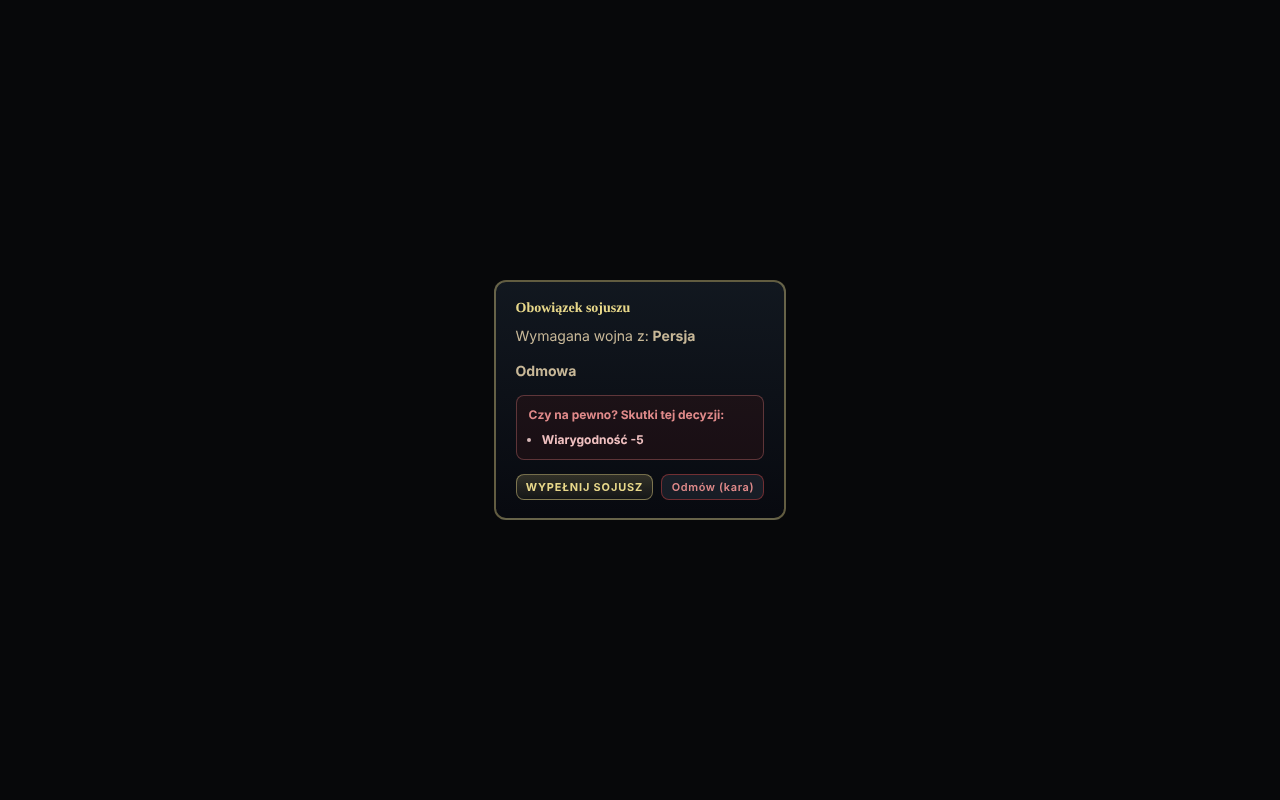
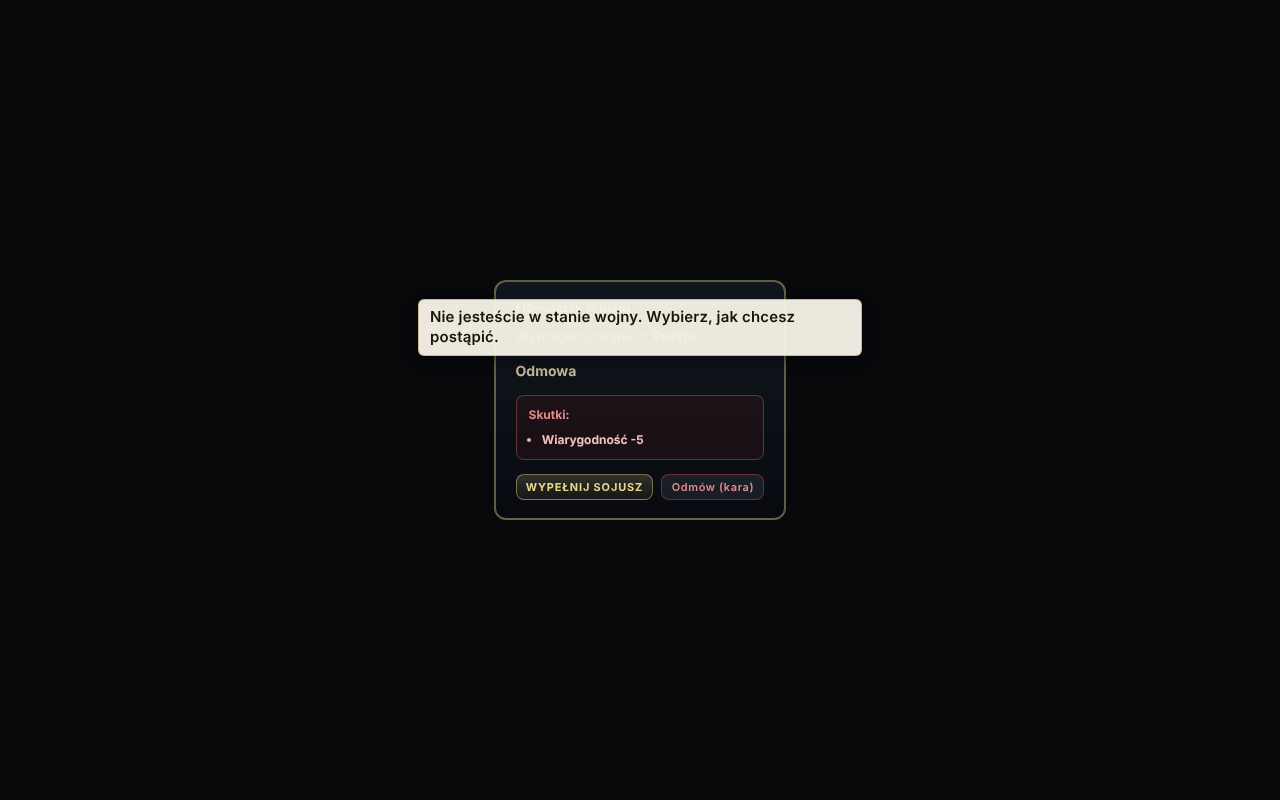
R-WEB-UI-DIPLO-ALL-PROPOSAL-WINDOWS-DECLUTTER-TOOLTIPS-Q2 r2 (Operator): okna umów koszyka, wojna/sojusz/zerwanie, słodzik — wyjaśnienia do tooltipów
Claude-Session: https://claude.ai/code/session_01Fs7eokPtaxbQL7KGTXXeWS

Changed region(s): [[0.3125, 0.375, 0.6875, 0.4688], [0.4062, 0.5, 0.5625, 0.5312]]

diff --git a/gra/src/ui/diplomacyTradeBasket.ts b/gra/src/ui/diplomacyTradeBasket.ts
@@ -663,28 +663,24 @@ function treatySectionHtml(actionId: string, ctx: NegotiationModalContext, state
         + '" data-turns="' + t + '">' + t + '</button>',
       ).join('');
       const indefiniteSelected = state.turns <= 0 ? ' selected' : '';
-      body = '<label for="cdb-treaty-turns">Czas paktu</label>'
+      // Q2: wyjaśnienie zakresu i kary przeniesione do tooltipa etykiety (nic nie usunięte).
+      body = '<label for="cdb-treaty-turns"' + detailTipAttr([
+          'Ręcznie: 10–20 tur lub 0 = bezterminowy',
+          'Koszty / kary: Złamanie paktu: −30 Relacja, −20 Zaufanie',
+        ]) + '>Czas paktu</label>'
         + '<div class="cdb-chip-row cdb-turn-presets">' + turnChips
         + '<button type="button" class="cdb-chip cdb-chip-turn' + indefiniteSelected
         + '" data-turns="0">Bezterminowy</button></div>'
-        + qtyStepperHtml('cdb-treaty-turns', 'treaty', state.turns <= 0 ? 0 : state.turns, 0, 20)
-        + '<p class="cdb-sub">Ręcznie: 10–20 tur lub 0 = bezterminowy</p>'
-        + '<div class="cdb-penalty-box">'
-        + '<div class="cdb-penalty-title">Koszty / kary</div>'
-        + '<p class="cdb-sub" style="margin:0">Złamanie paktu: −30 Relacja, −20 Zaufanie</p>'
-        + '</div>';
+        + qtyStepperHtml('cdb-treaty-turns', 'treaty', state.turns <= 0 ? 0 : state.turns, 0, 20);
       break;
     }
     case '3':
-      body = '<label>Typ sojuszu</label>'
+      // Q2: kary zerwania sojuszu w tooltipie etykiety (nic nie usunięte).
+      body = '<label' + detailTipAttr(['Koszty / kary: Zerwanie sojuszu / wojna z sojusznikiem: kary Relacji i Wiarygodności']) + '>Typ sojuszu</label>'
         + '<select id="cdb-treaty-alliance" class="cdb-treaty-alliance">'
         + '<option value="pelny"' + (state.allianceKind === 'pelny' ? ' selected' : '') + '>Sojusz wojskowy (wojna sojusznika = twoja)</option>'
         + '<option value="defensywny"' + (state.allianceKind === 'defensywny' ? ' selected' : '') + '>Sojusz obronny (atak na sojusznika)</option>'
-        + '</select>'
-        + '<div class="cdb-penalty-box">'
-        + '<div class="cdb-penalty-title">Koszty / kary</div>'
-        + '<p class="cdb-sub" style="margin:0">Zerwanie sojuszu / wojna z sojusznikiem: kary Relacji i Wiarygodności</p>'
-        + '</div>';
+        + '</select>';
       break;
     case '4': {
       const feeC = ctx.borderFeeCivil ?? 20;
@@ -721,7 +717,7 @@ function treatySectionHtml(actionId: string, ctx: NegotiationModalContext, state
         + (state.barbarianCooperation ? ' selected' : '') + '">Wspólna walka z barbarzyńcami</button>'
         + '</div>'
         + barbDurationSection
-        + '<p class="cdb-sub">Opłata cywilne: ' + feeC + ' ¤ · wojskowe: ' + feeM + ' ¤ (jednorazowo)</p>';
+        + '<p class="cdb-sub"' + detailTipAttr(['Opłata cywilne: ' + feeC + ' ¤ · wojskowe: ' + feeM + ' ¤ (jednorazowo)']) + '>Opłata: ' + feeC + ' ¤ · ' + feeM + ' ¤</p>';
       break;
     }
     case '8':
@@ -736,15 +732,14 @@ function treatySectionHtml(actionId: string, ctx: NegotiationModalContext, state
         + '<input type="number" id="cdb-treaty-trib-turns" class="cdb-treaty-trib-turns" value="' + state.tributeTurns + '" min="0" />';
       break;
     case '12':
-      body = '<label for="cdb-treaty-wasal-gpt">Trybut wasala ¤/turę</label>'
-        + '<input type="number" id="cdb-treaty-wasal-gpt" class="cdb-treaty-wasal-gpt" value="' + state.goldPerTurn + '" min="10" />'
-        + '<p class="cdb-sub">Wasal zachowuje terytorium · płaci trybut co turę</p>';
+      body = '<label for="cdb-treaty-wasal-gpt"' + detailTipAttr(['Wasal zachowuje terytorium · płaci trybut co turę']) + '>Trybut wasala ¤/turę</label>'
+        + '<input type="number" id="cdb-treaty-wasal-gpt" class="cdb-treaty-wasal-gpt" value="' + state.goldPerTurn + '" min="10" />';
       break;
     case '15': {
       const minGold = ctx.wchloniecieGoldRequired ?? 200;
       body = '<label for="cdb-treaty-wchlon-gold">Opłata za wchłonięcie (¤)</label>'
         + '<input type="number" id="cdb-treaty-wchlon-gold" class="cdb-treaty-wchlon-gold" value="' + state.goldOnce + '" min="' + minGold + '" />'
-        + '<p class="cdb-sub">Wymagane minimum ' + minGold + ' ¤ · wasal musi wyrazić zgodę (Relacja ≥ 60)</p>';
+        + '<p class="cdb-sub"' + detailTipAttr(['Wymagane minimum ' + minGold + ' ¤ · wasal musi wyrazić zgodę (Relacja ≥ 60)']) + '>Minimum ' + minGold + ' ¤</p>';
       break;
     }
     case '5': {
@@ -759,13 +754,13 @@ function treatySectionHtml(actionId: string, ctx: NegotiationModalContext, state
       // 1 turę, `clampDealTurns` 1–20 — patrz E3) — chip pomija pole `turns` w payloadzie
       // całkowicie (patrz `buildTreatyPayload`, case '5').
       const indefiniteSelected = state.turns <= 0 ? ' selected' : '';
-      body = '<label for="cdb-treaty-turns">Czas traktatu handlowego (tur)</label>'
+      body = '<label for="cdb-treaty-turns"' + detailTipAttr([
+          'Ręcznie: 1–20 tur lub 0 = bezterminowy. Fundament szlaków handlowych — opcjonalnie dołóż wymianę PW poniżej.',
+        ]) + '>Czas traktatu handlowego (tur)</label>'
         + '<div class="cdb-chip-row cdb-turn-presets">' + turnChips
         + '<button type="button" class="cdb-chip cdb-chip-turn' + indefiniteSelected
         + '" data-turns="0">Bezterminowy</button></div>'
-        + qtyStepperHtml('cdb-treaty-turns', 'treaty', state.turns <= 0 ? 0 : state.turns, 0, 20)
-        + '<p class="cdb-sub">Ręcznie: 1–20 tur lub 0 = bezterminowy. Fundament szlaków '
-        + 'handlowych — opcjonalnie dołóż wymianę PW poniżej.</p>';
+        + qtyStepperHtml('cdb-treaty-turns', 'treaty', state.turns <= 0 ? 0 : state.turns, 0, 20);
       break;
     }
     case '6': {
@@ -842,9 +837,8 @@ function treatySectionHtml(actionId: string, ctx: NegotiationModalContext, state
       break;
     }
     case '9':
-      body = '<label for="cdb-treaty-ult-gold">Reparacje (¤)</label>'
-        + '<input type="number" id="cdb-treaty-ult-gold" class="cdb-treaty-ult-gold" value="' + state.goldOnce + '" min="0" />'
-        + '<p class="cdb-sub">Odmowa partnera = casus belli (zaznacz ultimatum poniżej).</p>';
+      body = '<label for="cdb-treaty-ult-gold"' + detailTipAttr(['Odmowa partnera = casus belli (zaznacz ultimatum poniżej).']) + '>Reparacje (¤)</label>'
+        + '<input type="number" id="cdb-treaty-ult-gold" class="cdb-treaty-ult-gold" value="' + state.goldOnce + '" min="0" />';
       break;
     case '10':
       // R-DYP-STOL-A-KOREKTA (2026-08-09, nota Evaluatora): akcja '10' (pokój) jest teraz
@@ -864,15 +858,17 @@ function treatySectionHtml(actionId: string, ctx: NegotiationModalContext, state
           '<button type="button" class="cdb-chip cdb-chip-truceturns' + (state.truceTurns === t ? ' selected' : '')
           + '" data-turns="' + t + '">' + t + ' tur</button>',
         ).join('');
-        body = '<label>Rodzaj</label>'
+        // Q2: opisy trybów (rozejm / pokój) przeniesione do tooltipów etykiet (nic nie usunięte).
+        body = '<label' + detailTipAttr([isTruce
+            ? 'Rozejm: po wygaśnięciu wojna wraca bez kary. Wypowiedzenie wojny w jego trakcie = złamanie (kara jak za pakt). Baza ~200 PW.'
+            : 'Zakończenie wojny. Wymagane PW traktatu zależą od Relacji (baza ~500 PW, modyfikator ±90%).']) + '>Rodzaj</label>'
           + '<div class="cdb-chip-row">' + kindChips + '</div>'
           + '<input type="hidden" id="cdb-treaty-peacekind" class="cdb-treaty-peacekind" value="' + state.peaceKind + '" />'
           + (isTruce
             ? '<label>Czas rozejmu</label>'
               + '<div class="cdb-chip-row cdb-turn-presets">' + truceChips + '</div>'
               + '<input type="hidden" id="cdb-treaty-truceturns" class="cdb-treaty-truceturns" value="' + state.truceTurns + '" />'
-              + '<p class="cdb-sub">Rozejm: po wygaśnięciu wojna wraca bez kary. Wypowiedzenie wojny w jego trakcie = złamanie (kara jak za pakt). Baza ~200 PW.</p>'
-            : '<p class="cdb-sub">Zakończenie wojny. Wymagane PW traktatu zależą od Relacji (baza ~500 PW, modyfikator ±90%).</p>');
+            : '');
       }
       break;
     default:
@@ -1679,7 +1675,7 @@ export function buildAddForm(
         ' title="' + esc(m.label + ' — wycena ' + m.pn + ' PW') + '"',
       ),
     ).join('')
-    : '<span class="cdb-sub">— brak miast do oddania (stolica i ostatnie miasto są wyłączone) —</span>';
+    : '<span class="cdb-sub"' + detailTipAttr(['Stolica i ostatnie miasto są wyłączone.']) + '>— brak miast do oddania —</span>';
 
   const qtyResources = side === 'give'
     ? (ctx.giveQuantityResourceOptions ?? defaultQuantityResourceOptions())

diff --git a/gra/src/ui/diplomacyNegotiationModal.ts b/gra/src/ui/diplomacyNegotiationModal.ts
@@ -236,8 +236,8 @@ function sweetenerSectionHtml(ctx: NegotiationModalContext): string {
     ).join('');
   return (
     '<div class="cdn-sweetener" style="margin-top:12px;border-top:1px dashed rgba(232,216,138,.18);padding-top:8px">'
-    + '<label style="margin-top:0">Dołóż do umowy (opcjonalnie — słodzik)</label>'
-    + '<p class="cdn-sub">Zwiększa szansę akceptacji — wliczane RAZEM z traktatem.</p>'
+    // Q2: wyjaśnienie słodzika w tooltipie etykiety (nic nie usunięte).
+    + '<label style="margin-top:0" title="' + esc('Zwiększa szansę akceptacji — wliczane RAZEM z traktatem.') + '">Dołóż do umowy (opcjonalnie — słodzik)</label>'
     + numInput('cdn-sw-gold', 'Pieniądze (¤)', 0, 0, goldMax)
     + '<label>Surowiec</label>'
     + '<select id="cdn-sw-res">' + resOptions + '</select>'
@@ -321,7 +321,7 @@ function buildFormBody(action: AudienceAction, ctx: NegotiationModalContext): st
       return sub
         + '<div class="cdn-row"><input type="checkbox" id="cdn-mil" />'
         + '<label for="cdn-mil" style="margin:0">Prawo wojskowe (+ opłata)</label></div>'
-        + '<p class="cdn-sub">Opłata cywilne: ' + feeC + ' ¤ · wojskowe: ' + feeM + ' ¤ (jednorazowo)</p>';
+        + '<p class="cdn-sub" title="' + esc('Opłata cywilne: ' + feeC + ' ¤ · wojskowe: ' + feeM + ' ¤ (jednorazowo)') + '">Opłata: ' + feeC + ' ¤ · ' + feeM + ' ¤</p>';
     }
 
     case '5':
@@ -369,8 +369,10 @@ function buildFormBody(action: AudienceAction, ctx: NegotiationModalContext): st
 
     case '9':
       return sub
+        // Q2: „Odmowa = casus belli” w tooltipie pola (nic nie usunięte).
+        + '<div title="' + esc('Odmowa = casus belli') + '">'
         + numInput('cdn-ult-gold', 'Reparacje ¤ (preset v1.1)', 50, 0)
-        + '<p class="cdn-sub">Odmowa = casus belli</p>';
+        + '</div>';
 
     case '12':
       return sub

diff --git a/gra/src/ui/diplomacyAudience.ts b/gra/src/ui/diplomacyAudience.ts
@@ -1094,16 +1094,16 @@ function penaltyKindLabel(kind: DiploPenaltyPreviewLine['kind']): string {
 
 function penaltyBlockHtml(preview: DiploPenaltyPreview | undefined): string {
   if (!preview?.lines.length) return '';
-  const items = preview.lines.map((l) => {
-    if (l.kind === 'info') {
-      return '<li class="info">' + esc(l.reason) + '</li>';
-    }
-    // R-WEB-UI-DIPLO-ALL-PROPOSAL-WINDOWS-DECLUTTER-TOOLTIPS-Q2: uzasadnienie kary zostaje w tooltipie
-    // wiersza (liczba = widoczna), nie na oknie. / EN: the penalty reason moves into the row tooltip.
-    return '<li title="' + esc(l.reason) + '"><b>' + esc(penaltyKindLabel(l.kind) + ' ' + signedDelta(l.delta)) + '</b></li>';
-  }).join('');
-  return '<div class="cd-penalty-wrap">' +
-    '<p class="cd-penalty-title">Czy na pewno? Skutki tej decyzji:</p>' +
+  // R-WEB-UI-DIPLO-ALL-PROPOSAL-WINDOWS-DECLUTTER-TOOLTIPS-Q2: na oknie zostają tylko liczby kar;
+  // uzasadnienia (także linie „info”) idą do tooltipa bloku. / EN: reasons move into the block tooltip.
+  const infoTips = preview.lines.filter(l => l.kind === 'info').map(l => l.reason);
+  const reasonTips = preview.lines.filter(l => l.kind !== 'info').map(l => penaltyKindLabel(l.kind) + ' ' + signedDelta(l.delta) + ': ' + l.reason);
+  const blockTip = ['Czy na pewno? Skutki tej decyzji:', ...reasonTips, ...infoTips].join('\n');
+  const items = preview.lines.filter(l => l.kind !== 'info').map((l) =>
+    '<li><b>' + esc(penaltyKindLabel(l.kind) + ' ' + signedDelta(l.delta)) + '</b></li>',
+  ).join('');
+  return '<div class="cd-penalty-wrap" title="' + esc(blockTip) + '">' +
+    '<p class="cd-penalty-title">Skutki:</p>' +
     '<ul class="cd-penalty-list">' + items + '</ul></div>';
 }
 

diff --git a/gra/src/ui/hudTitleTooltip.ts b/gra/src/ui/hudTitleTooltip.ts
@@ -53,6 +53,8 @@ const SCOPE_SELECTOR = [
   // R-WEB-UI-DIPLO-ALL-PROPOSAL-WINDOWS-DECLUTTER-TOOLTIPS-Q2: modale dyplomacji (wojna, sojusz,
   // zerwanie) montują się na `document.body` — ich wyjaśnienia są w title, więc potrzebują tego scope.
   '.civ-diplo-modal-overlay',
+  // Q2: okno negocjacji/propozycji (formularz wojny/pokoju/sojuszu, słodzik) — tooltips w title.
+  '.civ-diplo-neg-overlay',
   // P-TOOLTIP-CIV-UNIT-PANEL-BRAK-W-SCOPE (2026-08-15, znalezisko Evaluatora C-025 przy okazji
   // RUNDY 2): ta sama przyczyna — `.civ-unit-panel` (unitPanelHud.ts) montuje się bezpośrednio
   // na `document.body`, poza wszystkimi kontenerami wyżej. Renderuje plakietkę weterana

diff --git a/dyspozycje/autobot/runs/R-WEB-UI-DIPLO-ALL-PROPOSAL-WINDOWS-DECLUTTER-TOOLTIPS-Q2/10-operator-claude.md b/dyspozycje/autobot/runs/R-WEB-UI-DIPLO-ALL-PROPOSAL-WINDOWS-DECLUTTER-TOOLTIPS-Q2/10-operator-claude.md
@@ -1,62 +1,53 @@
-# R-WEB-UI-DIPLO-ALL-PROPOSAL-WINDOWS-DECLUTTER-TOOLTIPS-Q2 — raport Operatora (runda 1/5)
-
-STATUS: PASS-WITH-NOTES
-DOMAIN: GAME (UI dyplomacji — wyłącznie prezentacja)
+STATUS: PASS-WITH-NOTES (Operator, runda 2/5 — do Evaluatora; nie integrowane)
+DOMAIN: GAME (UI dyplomacji, wyłącznie prezentacja)
 TEMAT: R-WEB-UI-DIPLO-ALL-PROPOSAL-WINDOWS-DECLUTTER-TOOLTIPS-Q2
-GOAL: część 2 poleceń właściciela — wyjaśnienia z okien dyplomacji do tooltipów, na planszach zostają tylko liczby, nazwy i przyciski.
-BAZA: origin/main 89a5e25cc (FALA 820, Q1 wdrożone). Worktree: wf_b958c925-d62-1, tryb detached.
+GOAL: reguły R1–R6 dla pozostałych okien dyplomacji (zakres r2 = zarzut 1 FC: wojna/zgoda, sojusz, pakt, pokój/rozejm, wasal, wchłonięcie, handel, dar, zerwanie, panel PW w negocjacjach).
+ZMIANY/COMMIT: baza 89a5e25cc; kod rundy 1 = 92fede741 (kandydat FC r1); czubek tej rundy = commit tego raportu (SHA w polu sha).
+  Kod: gra/src/ui/diplomacyTradeBasket.ts (formularze umów koszyka: Pakt, Sojusz, Przemarsz, Wasal, Wchłonięcie, Pokój/Rozejm, Reparacje, Handel-dolny opis; wyjaśnienia → title etykiety/pola, widoczna tylko liczba); gra/src/ui/diplomacyNegotiationModal.ts (słodzik, opłata przemarszu, „Odmowa = casus belli”); gra/src/ui/diplomacyAudience.ts (penaltyBlockHtml: modal wojny/zgody/sojuszu/zerwania — lista skutków = same liczby, uzasadnienia i linie „info” w title bloku, nagłówek „Skutki:”); gra/src/ui/hudTitleTooltip.ts (+ scope `.civ-diplo-neg-overlay`). Testy: gra/tools/diplo-all-windows-declutter-tooltips-test.cjs (+ blok koszyka, mutacje), gra/tools/diplo-all-windows-declutter-real-render-test.cjs (M1 zaktualizowana do nowej kotwicy). Zrzuty: dowody/PRZED-*.png i PO-*.png (7 okien) + PO-hover-war.png, PO-hover-alliance.png (dymek hudTitleTooltip z treścią title).
+  Ta runda NIE rusza showForcedPeaceModal (poza zakresem, FORCEDPEACE).
 
-## KROK 0 — INWENTARZ (plansza | plik:linia | tekst widoczny dziś | decyzja)
-
-| plansza | plik:linia | tekst widoczny (przed) | decyzja |
+KROK 0 — INWENTARZ (skrót; pełne wiersze wg kodu)
+| plansza | plik | tekst dziś | decyzja |
 |---|---|---|---|
-| Wojna — modal zgody | diplomacyAudience.ts:1142–1145 | lead „Nie jesteście w stanie wojny. Wybierz…”; „— bez ataku w tej turze (karencja N1)” | lead → „Wybierz działanie:”, pełny tekst i opis w title |
-| Wojna — opcja ataku | :1135 | „— wojna od razu i atak w tej turze” | opis w title opcji |
-| Wojna — kara (lista skutków) | penaltyBlockHtml :1105 | „Kind ±N — uzasadnienie” | liczba zostaje, uzasadnienie w title wiersza |
-| Sojusz — obowiązek | :1192–1196 | „Sojusznik X wymaga, żebyś wypowiedział…”; „— kara Wiarygodności i zerwanie sojuszu” | „Wymagana wojna z: Y” widoczne; reszta w title |
-| Baner stanu formalnego | formalBannerHtml :1320 | „zerwanie: kara” w podtytule | w title etykiety „Stan: …” (etykieta zawsze widoczna) |
-| Wiersz relacji | relacjaTotalHtml :1669 | „(Zaufanie + Respekt)” | usunięte z widoku (już w title wiersza) |
-| Wiarygodność | credibilityBarHtml :1711 | „życiorys X · bieżące Y” | w title wiersza (Rozbicie) |
-| Możliwe umowy — stół | dealsColumnHtml :2039 | „dodaj kolejną umowę z listy · jeden bilans PW…” | widoczne „Na stole: N”, reszta w title |
-| Aktywne traktaty | treatiesColumnHtml :2065 | „kara zerwania: X” (linia) | w title nazwy traktatu (Zerwij ma już title) |
-| Karty negocjacji (WE/ONI) | renderIncoming*Card :2225, :2253 | „Użyj Edytuj, aby zmienić ilości w koszyku” | w title karty |
-| Pasek akcji / SZYBKA WYMIANA | actionBarHtml | — | bez zmian (zrobione w Q1, R5) |
-| Nagłówek audiencji, status, „(w wojnie zaufanie…)” | :1349 | dopisek „(w wojnie zaufanie spada do zera)” | ZOSTAJE (krótki, testy live go wymagają) |
-| Pokój wymuszony (showForcedPeaceModal) | :1223 | — | POZA ZAKRESEM (zgodnie z dispatchem) |
-| Pakt, Handel/szlak, Dar, Wasal, Wchłonięcie w diplomacyTradeBasket | — | — | NIE ZBADANE w tej rundzie — do Q3 |
+| Wojna: zgoda/kara | diplomacyAudience.ts penaltyBlockHtml | „Czy na pewno? Skutki…”, uzasadnienia, info-linie | Skutki: liczby zostają; uzasadnienia + info → title bloku |
+| Wojna: opcje | showWarConsentModal | „Bez ataku…”, „Wojna od razu…”, lead „Nie jesteście…” | title opcji / lead (r1) |
+| Wojna: potwierdzenie | showWarConfirmModal | „Na pewno wypowiadasz wojnę X?” | pytanie decyzyjne ZOSTAJE |
+| Zerwanie traktatu | showBreakTreatyConfirmModal | „Na pewno zrywasz: X?” + kara | pytanie zostaje; kara → title bloku |
+| Sojusz (obowiązek) | showAllianceObligationModal | „Kara Wiarygodności…” | title (r1) |
+| Baner stanu | formalBannerHtml | „Stan: X”, „zerwanie: …” | etykieta zostaje; kara → title (r1) |
+| Relacje / wiarygodność | relacjaTotalHtml, credibilityBarHtml | „(Zaufanie + Respekt)”, rozbicie | title (r1) |
+| Zmęczenie/desperacja | warWearinessRowHtml | etykieta „Desperacja N%”, „Pokój wymuszony za ≈N tur” | liczby zostają; opis w title (istniejący) |
+| Aktywne traktaty | treatiesColumnHtml | „kara zerwania”, meta | title nazwy (r1) |
+| Stół negocjacji | dealsColumnHtml, negotiation cards | „Na stole: N”, „Użyj Edytuj…” | title (r1) |
+| Pakt | treatySectionHtml case 2 | „Ręcznie: 10–20…”, „Koszty/kary: Złamanie…” | etykieta „Czas paktu” + title |
+| Sojusz (typ) | case 3 | „Zerwanie sojuszu… kary” | title etykiety „Typ sojuszu” |
+| Przemarsz | case 4 | „Opłata cywilne/wojskowe (jednorazowo)” | widoczne „Opłata: C · M”, pełna treść w title |
+| Wasal | case 12 | „Wasal zachowuje terytorium…” | title etykiety |
+| Wchłonięcie | case 15 | „Wymagane minimum X · wasal musi… (Relacja ≥ 60)” | widoczne „Minimum X ¤”, reszta title |
+| Handel/traktat handlowy | case 5 | „Ręcznie: 1–20… fundament szlaków…” | title etykiety |
+| Reparacje/ultimatum | case 9, negotiation „cdn-ult-gold” | „Odmowa partnera = casus belli” | title pola |
+| Pokój/Rozejm | case 10 | „Rozejm: po wygaśnięciu…”, „Zakończenie wojny…” | title etykiety „Rodzaj”/„Czas rozejmu” |
+| Dar | negotiation case 13/14 | „zamknij to okno…” | title (r1) |
+| Słodzik (PW) | sweetenerSectionHtml | „Zwiększa szansę akceptacji…” | title etykiety |
+| Empty states | „Brak technologii…”, „Brak znanych wrogów…” | komunikaty blokujące | ZOSTAJĄ (R2) |
+| Okno pokoju wymuszonego | showForcedPeaceModal | — | POZA ZAKRESEM (FORCEDPEACE), nietknięte |
 
-## ZMIANY-COMMIT
+TESTY (wszystkie na candidate, Node 22/esbuild/Chromium):
+- tsc --noEmit: exit 0.
+- Bramki referencyjne: logic-test 213/213; tech-tree 20/20; research 33/33; unit-replace 21/21; combat-test OK; unit-power 6/0. (5 wierszy z dispatchu + combat.)
+- diplo-all-windows-declutter-tooltips-test: 48 pass, 0 fail (po poprawce asercji wielkości liter w bloku koszyka; 7 mutacji koszyka wykrytych).
+- diplo-all-windows-declutter-real-render-test: baza fail=0 (250 asercji PASS), mutacje 10/10 wykryte, zrzuty PO + hover.
+- diplo-deal-boards-declutter-tooltips-test (Q1): 13/0.
+- Pełny zestaw diplo*/dyplo* (178 plików): 101+72 uruchomione z limitem 30–40 s na plik. Exit 1 — IDENTYCZNE na bazie 89a5e25c (pre-existing): civ-matrix-ai-diplomacy-wiring (1 fail), dyplo-bilans-gate-n-e1 (×3), dyplo-karta-duplikat, dyplo-pakt-ekspansja, dyplo-warunek-niespelniony, granice-relacja-dyplomatyczna, diplomacy-border-era-penalty-live (dług #369).
+- Exit 124 (limit mojej pętli 30–40 s, NIE_ZMIERZONO do końca): 16 testów *-live-test i hotseat; diplo-aggressor-marker-live na bazie też 124 po 200 s (pre-existing).
 
-- gra/src/ui/diplomacyAudience.ts — tabela powyżej (wszystko przeniesione do title, nic nie usunięte z DOM-tooltipów).
-- gra/src/ui/hudTitleTooltip.ts — dodany scope `.civ-diplo-modal-overlay` (modale są na document.body; bez tego title w modalach byłby tylko natywny).
-- gra/tools/diplo-all-windows-declutter-tooltips-test.cjs — nowy test: 17 asercji (brak wyjaśnień w widocznym szablonie, tooltip zawiera dawne treści, scope modali, mutacja: uzasadnienie kary wraca na widok → test czerwieni).
-- dyspozycje/autobot/runs/R-WEB-UI-DIPLO-ALL-PROPOSAL-WINDOWS-DECLUTTER-TOOLTIPS-Q2/10-operator-claude.md — ten raport.
+ZAKOŃCZENIE / BLOKADY:
+- NIE_ZMIERZONO: 16 testów live (przekroczony limit czasu pętli) — wymagają osobnego przebiegu z dłuższym timeoutem.
+- Hover: zrzut dymka tylko dla war i alliance (dispatch wymagał min. 2 okien — spełnione). Fokus klawiatury/dotyk: NIE_ZMIERZONO.
+- Dowody PRZED/PO: PRZED z bazy 89a5e25cc, PO z kandydata. Uwaga: testy diplo* nadpisały w innych runs/ zrzuty; PRZED-*/PO-* tej rundy nie są tam; cofnięte (git checkout) — nie ma zmian poza tematem.
+- Dwa nieśledzone pliki wygenerowane przez test w innym runs/ (render.png, live-table.json) pozostawione nietknięte, NIE dodane do commita.
 
-## TESTY
-
-- tsc --noEmit: exit 0 (surowy wynik: TSC=0).
-- Nowy test: 17 pass, 0 fail.
-- Q1 diplo-deal-boards-declutter-tooltips-test: 13 pass, 0 fail.
-- Pełny zestaw node-owy diplo*/diplomacy*/dyplo*/wiarygodnosc (bez live): 196 zielonych (w tym nowy). 6 czerwonych — TE SAME na bazie 89a5e25c (zweryfikowane przez checkout bazy): dyplo-warunek-niespelniony-czerwony-tooltip, dyplo-karta-duplikat-komunikat, dyplo-bilans-gate-n-e1-reprodukcja (+ runda2, runda3), dyplo-pakt-ekspansja-granica. Nie są związane z tą zmianą.
-- Zrzuty Chromium PRZED/PO i z widocznym tooltipem: NIE ZMIERZONO. Powód: moduł audiencji nie daje się zbundlować w node (import.meta.glob z brandAssets); żywy harness wymagałby buildu Vite poza repo, nie uruchomiony w tej rundzie.
-- Dodatkowo `npm ci --ignore-scripts` w gra/ (worktree) — tylko zależności, bez `npm run build/dev`.
-
-## BLOKADY
-
-- Brak żywego zrzutu (patrz wyżej). Evaluator powinien to zamknąć albo wskazać, że brak zrzutu jest NIE ZMIERZONO z powodem.
-- Pakt/Handel/Dar/Wasal/Wchłonięcie oraz panel PW w negocjacjach (diplomacyNegotiationModal.ts) nie zostały zinwentaryzowane — poza tą rundą.
-
-## RUNDY
-
-1/5
-
-## UWAGI-DLA-ORKIESTRATORA
-
-- Worktree ma świeżo zainstalowane gra/node_modules (npm ci, ~9 GB wolne na dysku przed startem). Nie usuwałem (dispatch zakazuje rm).
-- Testy node-owe zapisują pliki PNG w dyspozycje/autobot/runs/…/dowody; po uruchomieniu przywracałem je git checkout — nie są częścią zmiany.
-
-## NASTĘPNY KROK
-
-Evaluator: przegląd inwentarza i tooltipów; zrzuty Chromium (jeśli dostępne) dla Wojny, Sojuszu, Możliwych umów, Aktywnych traktatów, nagłówka audiencji; decyzja, czy Pakt/Handel/Dar/Wasal wchodzą do Q3.
-
+RUNDY: 2/5 (ten przebieg = runda 2 Operatora; FC r1 FAIL).
+NASTĘPNY KROK: Evaluator (Sonnet/Haiku wg zasady) → Obrona → FC; sprawdzić zwłaszcza zarzut 1 (koszyk + penaltyBlock) i powtórzyć tooltips-test.
 DEPLOY/PUSH: NIE WYKONANO
+UWAGI-DLA-ORKIESTRATORA: dwa testy live (diplo-truce-live itp.) wymagają dłuższego limitu; test hover robi zrzut tylko dla war/alliance.
